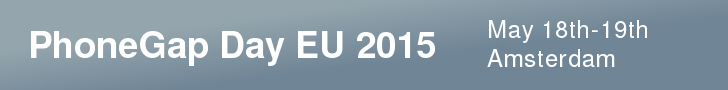
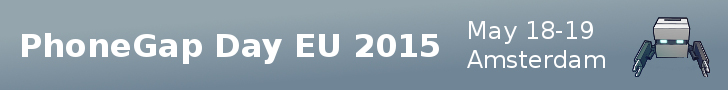
PhoneGap Day on home page and new conference page

Changed region(s): [[0.0302, 0.3333, 0.6044, 0.7333], [0.6346, 0.1778, 0.9973, 0.8444]]

diff --git a/www/documentation/community/phonegapday2015.html b/www/documentation/community/phonegapday2015.html
@@ -30,15 +30,15 @@
 
     <!-- Facebook -->
     <meta property="og:side_name" content="Crosswalk" />
-    <meta property="og:title" content="Crosswalk" />
-    <meta property="og:url" content="http://crosswalk-project.org/documentation/community/senchacon2015" />
+    <meta property="og:title" content="PhoneGap Day EU 2015" />
+    <meta property="og:url" content="http://crosswalk-project.org/documentation/community/phonegapday2015" />
     <meta property="og:description" content="Enable the most advanced web innovations with the Crosswalk Project web runtime to develop powerful Android and Cordova apps." />
     <meta property="og:image" content="/assets/crosswalk-og-banner.jpg" />
 
     <!-- Twitter -->
     <meta name="twitter:card" content="summary" />
-    <meta name="twitter:url" content="http://crosswalk-project.org/documentation/community/senchacon2015" />
-    <meta name="twitter:title" content="Crosswalk" />
+    <meta name="twitter:url" content="http://crosswalk-project.org/documentation/community/phonegapday2015" />
+    <meta name="twitter:title" content="PhoneGap Day EU 2015" />
     <meta name="twitter:description" content="Enable the most advanced web innovations with the Crosswalk Project web runtime to develop powerful Android and Cordova apps." />
     <meta name="twitter:site" content="@xwalk_project" />
 
@@ -200,7 +200,7 @@
           
             
             
-            <li class="article-item ">
+            <li class="article-item  nav-item--active">
               <a class="article-link" href="/documentation/community/phonegapday2015.html">PhoneGap Day EU 2015</a>
             </li>
           
@@ -226,19 +226,21 @@
 </nav>
 
 <article class="article article--hasToC">
-  <h1>SenchaCon 2015</h1>
-<p>The Crosswalk Project will be at SenchaCon!</p>
-<p>Come visit the team at <a href="http://www.senchacon.com">SenchaCon</a> this coming week, April 7-9.</p>
-<p><a href="http://www.senchacon.com">
-    <img src="/assets/senchacon-horiz-blue.jpg" 
-        style="width:380px; border:solid 1px black;
+  <h1>PhoneGap Day EU 2015</h1>
+<p>The Crosswalk Project will be at <a href="http://pgday.phonegap.com/">PhoneGap Day in Amsterdam</a></p>
+<p>The team is excited to be involved in PhoneGap Day -- May 18-19, 2015 in Amsterdam.</p>
+<p><a href="http://pgday.phonegap.com">
+    <img src="/assets/pgd-banner.jpg" 
+        style="width:620px; border:solid 1px black;
         display:block; margin-left:auto; margin-right:auto;">
 </a></p>
-<p>The Crosswalk Project will have a booth at the show.  Also, on Wednesday afternoon we hope you&#39;ll join our session:</p>
+<p>The Crosswalk plugin will be part of the PhoneGap 5.0 and build service!  This will give developers the ability to easily use Crosswalk as their runtime for Android applications while building with the PhoneGap tools they know and love.</p>
 
-<p>Session: <b>Unleash the full fury of web innovation in your Android app today</b><br>
-Schedule: Wednesday, April 8th, @1:30pm.<br></p>
-<p>Hope to see you there!</p>
+<p>At PhoneGap day, come discover how to get the most out of your web applications by attending the Crosswalk-sponsored talk: <br /><br />
+&nbsp;&nbsp;&nbsp;&nbsp;<strong>Unleash the full fury of web innovation in your Android app today</strong><br />
+&nbsp;&nbsp;&nbsp;&nbsp;Presented by Francesco Balestrieri, Crosswalk Project Manager</p>
+
+<p>In addition, our senior engineers will be staffing our booth so please come by and find out why Crosswalk is speedily becoming one of the most popular ways to empower ambitious web applications.</p>
 
 
   <footer class="article-next">
@@ -248,8 +250,16 @@ Schedule: Wednesday, April 8th, @1:30pm.<br></p>
   
     
     
+      
+    
   
     
+    
+      
+      <a href="/documentation/community/conferences.html" class="article-promo well">
+        <em>What’s next?</em>
+        <h3>Conferences</h3>
+      </a>
     
   
 

diff --git a/www/index.html b/www/index.html
@@ -111,14 +111,16 @@
 	   <img src="/assets/senchacon-horiz-blue.jpg" style="height:80px;float:left;padding:5px 10px 5px 5px;" ><br/>Join the Crosswalk Project <br>at SenchaCon 2015!
 	 </div>
 	</a>
-        <a class="button-follower" id="main-follow-twitter-button" href="/documentation/community/fossasia2015.html">
-          <img src="/assets/fossasia15-banner.jpg" width="425px"><br>
-          Join us at FOSSASIA 2015!
-       </a>
 -->
+        <a class="button-follower" id="main-follow-twitter-button" href="/documentation/community/phonegapday2015.html">
+          <img src="/assets/pgd-banner.jpg" width="425px"><br>
+          Join us at PhoneGap Day EU 2015!
+       </a>
+<!--
         <a class="button-follower" id="main-follow-twitter-button" href="http://twitter.com/xwalk_project">
           <img src="/assets/Twitter_logo_white.png" width="20px" /> Follow the Crosswalk Project on Twitter
        </a>
+-->
      </div>
     </div>
   </div>

diff --git a/www/sitemap.html b/www/sitemap.html
@@ -128,6 +128,7 @@
 <li><a href="/documentation/community/conferences.html">/documentation/community/conferences.html</a></li>
 <li><a href="/documentation/community/fossasia2015.html">/documentation/community/fossasia2015.html</a></li>
 <li><a href="/documentation/community/mwc2015.html">/documentation/community/mwc2015.html</a></li>
+<li><a href="/documentation/community/phonegapday2015.html">/documentation/community/phonegapday2015.html</a></li>
 <li><a href="/documentation/community/senchacon2015.html">/documentation/community/senchacon2015.html</a></li>
 <li><a href="/documentation/cordova/add_plugins.html">/documentation/cordova/add_plugins.html</a></li>
 <li><a href="/documentation/cordova/develop_an_application.html">/documentation/cordova/develop_an_application.html</a></li>

diff --git a/www/documentation/community.html b/www/documentation/community.html
@@ -201,7 +201,7 @@
             
             
             <li class="article-item ">
-              <a class="article-link" href="/documentation/community/senchacon2015.html">SenchaCon 2015</a>
+              <a class="article-link" href="/documentation/community/phonegapday2015.html">PhoneGap Day EU 2015</a>
             </li>
           
             

diff --git a/www/documentation/community/conferences.html b/www/documentation/community/conferences.html
@@ -201,7 +201,7 @@
             
             
             <li class="article-item ">
-              <a class="article-link" href="/documentation/community/senchacon2015.html">SenchaCon 2015</a>
+              <a class="article-link" href="/documentation/community/phonegapday2015.html">PhoneGap Day EU 2015</a>
             </li>
           
             

diff --git a/www/documentation/community/fossasia2015.html b/www/documentation/community/fossasia2015.html
@@ -201,7 +201,7 @@
             
             
             <li class="article-item ">
-              <a class="article-link" href="/documentation/community/senchacon2015.html">SenchaCon 2015</a>
+              <a class="article-link" href="/documentation/community/phonegapday2015.html">PhoneGap Day EU 2015</a>
             </li>
           
             

diff --git a/www/documentation/community/mwc2015.html b/www/documentation/community/mwc2015.html
@@ -201,7 +201,7 @@
             
             
             <li class="article-item ">
-              <a class="article-link" href="/documentation/community/senchacon2015.html">SenchaCon 2015</a>
+              <a class="article-link" href="/documentation/community/phonegapday2015.html">PhoneGap Day EU 2015</a>
             </li>
           
             

diff --git a/public/documentation/community/phonegapday2015.md b/public/documentation/community/phonegapday2015.md
@@ -1,0 +1,17 @@
+# PhoneGap Day EU 2015
+The Crosswalk Project will be at [PhoneGap Day in Amsterdam](http://pgday.phonegap.com/)
+
+The team is excited to be involved in PhoneGap Day -- May 18-19, 2015 in Amsterdam.
+<p><a href="http://pgday.phonegap.com">
+    <img src="/assets/pgd-banner.jpg" 
+        style="width:620px; border:solid 1px black;
+        display:block; margin-left:auto; margin-right:auto;">
+</a></p>
+<p>The Crosswalk plugin will be part of the PhoneGap 5.0 and build service!  This will give developers the ability to easily use Crosswalk as their runtime for Android applications while building with the PhoneGap tools they know and love.</p>
+
+<p>At PhoneGap day, come discover how to get the most out of your web applications by attending the Crosswalk-sponsored talk: <br /><br />
+&nbsp;&nbsp;&nbsp;&nbsp;<strong>Unleash the full fury of web innovation in your Android app today</strong><br />
+&nbsp;&nbsp;&nbsp;&nbsp;Presented by Francesco Balestrieri, Crosswalk Project Manager</p>
+
+<p>In addition, our senior engineers will be staffing our booth so please come by and find out why Crosswalk is speedily becoming one of the most popular ways to empower ambitious web applications.</p>
+
